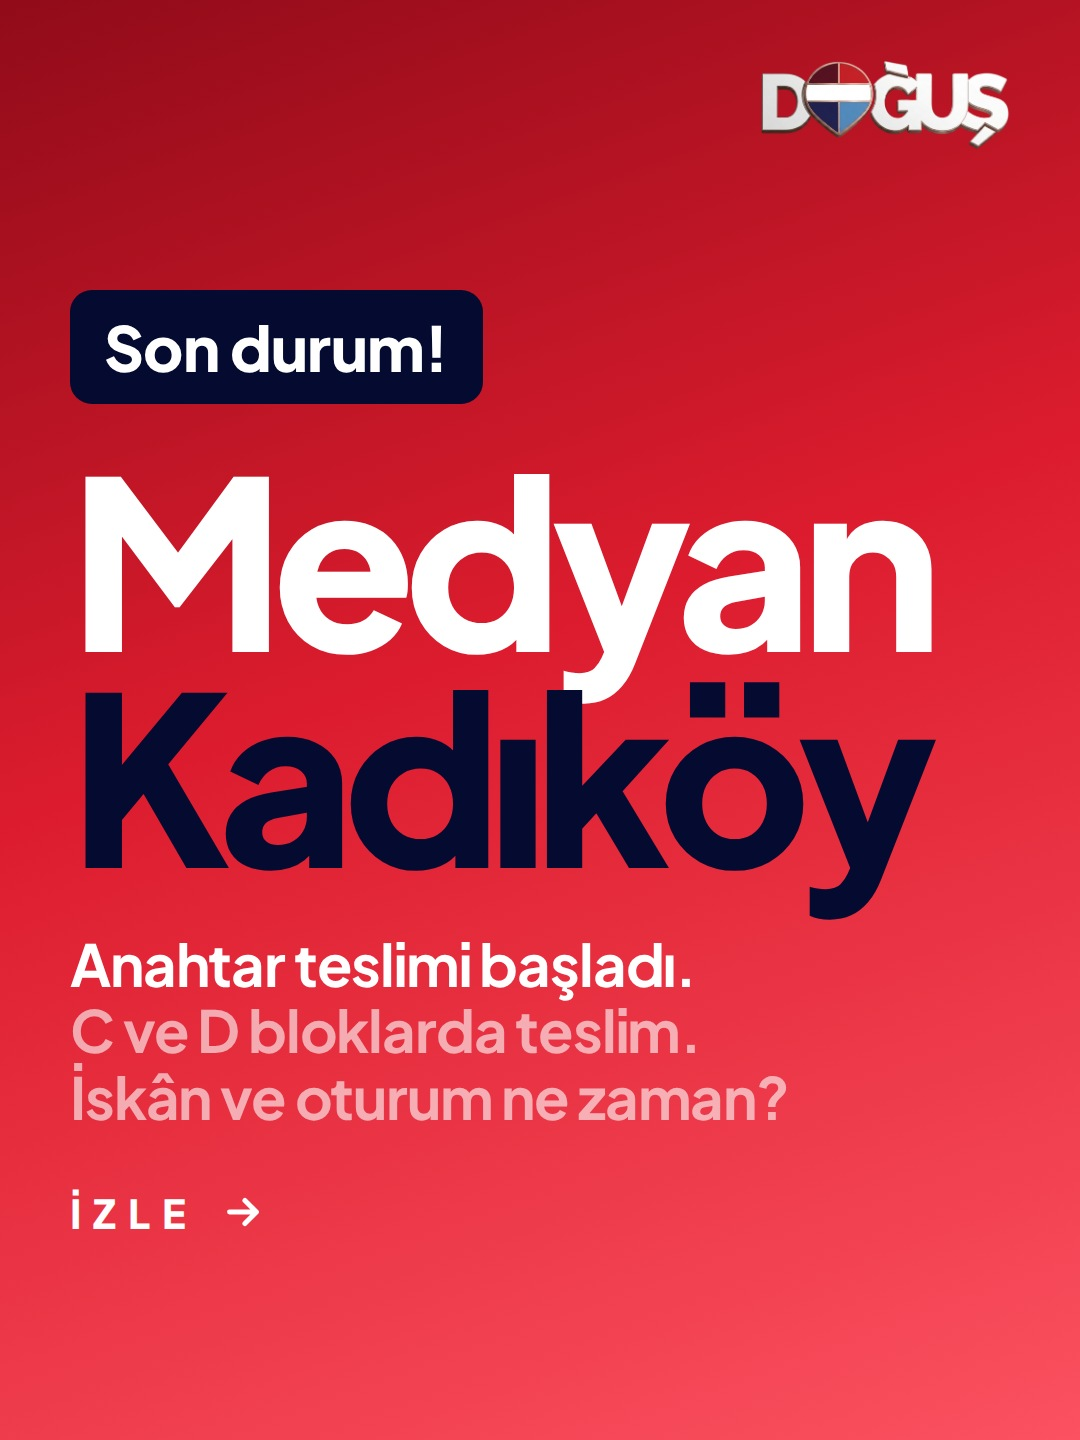
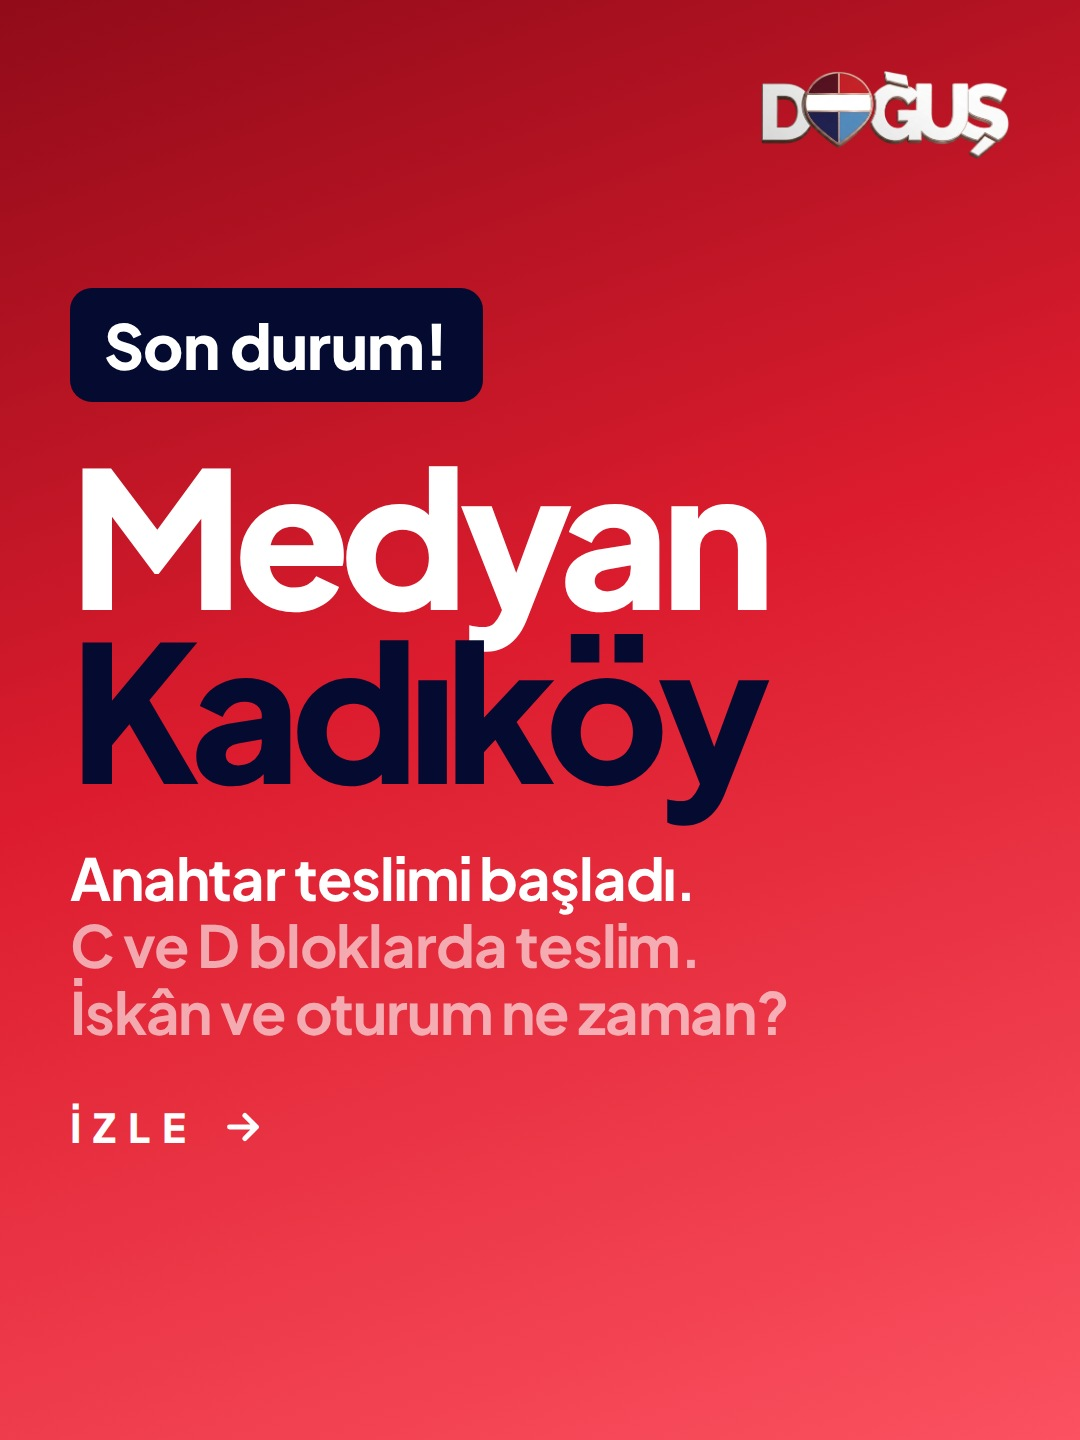
Kapaklar Instagram'da yayindaki surume esitlendi (sabit 190px baslik, dikey ortalama)
Claude-Session: https://claude.ai/code/session_01WRjv6iEbjtXjTmoaDMzP1n

Changed region(s): [[0.0611, 0.3125, 0.8861, 0.875], [0.7028, 0.0312, 0.9472, 0.125], [0.0917, 0.2188, 0.4278, 0.2812]]

diff --git a/ikiyaka/kapak.html b/ikiyaka/kapak.html
@@ -26,11 +26,6 @@ h1 .hl{color:#FB5160}
 .red h1 .hl{color:#050A30}
 .red .kay{color:#fff}
 .red .kay svg{stroke:#fff}
-/* İçerik üç kapakta da aynı yükseklikten başlasın */
-#c{justify-content:flex-start!important;padding-top:290px!important}
-.logo{top:60px!important}
-.reel .logo{top:300px!important}
-.reel #c{padding-top:530px!important}
 </style>
 </head>
 <body>
@@ -42,10 +37,6 @@ h1 .hl{color:#FB5160}
   <div class="kay">İZLE <svg width="46" height="46" viewBox="0 0 24 24" fill="none" stroke-width="2.6" stroke-linecap="round" stroke-linejoin="round"><path d="M5 12h14M13 6l6 6-6 6"/></svg></div>
 </div>
 <script>document.body.className=['reel','red'].filter(k=>location.search.includes(k)).join(' ');</script>
-<script>
-// Başlığı her kapakta aynı genişliğe (860px) oturt — kapaklar yan yana eş görünsün
-document.fonts.ready.then(()=>{const h=document.querySelector('h1');h.style.alignSelf='flex-start';h.style.display='inline-block';
-const w=h.getBoundingClientRect().width;h.style.fontSize=(parseFloat(getComputedStyle(h).fontSize)*860/w)+'px';document.body.dataset.fit='1';});
-</script>
+<script>document.fonts.ready.then(()=>document.body.dataset.fit='1')</script>
 </body>
 </html>

diff --git a/medyan/kapak-buyuk.html b/medyan/kapak-buyuk.html
@@ -26,11 +26,6 @@ h1 .hl{color:#FB5160}
 .red h1 .hl{color:#050A30}
 .red .kay{color:#fff}
 .red .kay svg{stroke:#fff}
-/* İçerik üç kapakta da aynı yükseklikten başlasın */
-#c{justify-content:flex-start!important;padding-top:290px!important}
-.logo{top:60px!important}
-.reel .logo{top:300px!important}
-.reel #c{padding-top:530px!important}
 </style>
 </head>
 <body>
@@ -42,10 +37,6 @@ h1 .hl{color:#FB5160}
   <div class="kay">İZLE <svg width="46" height="46" viewBox="0 0 24 24" fill="none" stroke-width="2.6" stroke-linecap="round" stroke-linejoin="round"><path d="M5 12h14M13 6l6 6-6 6"/></svg></div>
 </div>
 <script>document.body.className=['reel','red'].filter(k=>location.search.includes(k)).join(' ');</script>
-<script>
-// Başlığı her kapakta aynı genişliğe (860px) oturt — kapaklar yan yana eş görünsün
-document.fonts.ready.then(()=>{const h=document.querySelector('h1');h.style.alignSelf='flex-start';h.style.display='inline-block';
-const w=h.getBoundingClientRect().width;h.style.fontSize=(parseFloat(getComputedStyle(h).fontSize)*860/w)+'px';document.body.dataset.fit='1';});
-</script>
+<script>document.fonts.ready.then(()=>document.body.dataset.fit='1')</script>
 </body>
 </html>

diff --git a/uplife/kapak.html b/uplife/kapak.html
@@ -26,11 +26,6 @@ h1 .hl{color:#FB5160}
 .red h1 .hl{color:#050A30}
 .red .kay{color:#fff}
 .red .kay svg{stroke:#fff}
-/* İçerik üç kapakta da aynı yükseklikten başlasın */
-#c{justify-content:flex-start!important;padding-top:290px!important}
-.logo{top:60px!important}
-.reel .logo{top:300px!important}
-.reel #c{padding-top:530px!important}
 </style>
 </head>
 <body>
@@ -42,10 +37,6 @@ h1 .hl{color:#FB5160}
   <div class="kay">İZLE <svg width="46" height="46" viewBox="0 0 24 24" fill="none" stroke-width="2.6" stroke-linecap="round" stroke-linejoin="round"><path d="M5 12h14M13 6l6 6-6 6"/></svg></div>
 </div>
 <script>document.body.className=['reel','red'].filter(k=>location.search.includes(k)).join(' ');</script>
-<script>
-// Başlığı her kapakta aynı genişliğe (860px) oturt — kapaklar yan yana eş görünsün
-document.fonts.ready.then(()=>{const h=document.querySelector('h1');h.style.alignSelf='flex-start';h.style.display='inline-block';
-const w=h.getBoundingClientRect().width;h.style.fontSize=(parseFloat(getComputedStyle(h).fontSize)*860/w)+'px';document.body.dataset.fit='1';});
-</script>
+<script>document.fonts.ready.then(()=>document.body.dataset.fit='1')</script>
 </body>
 </html>
